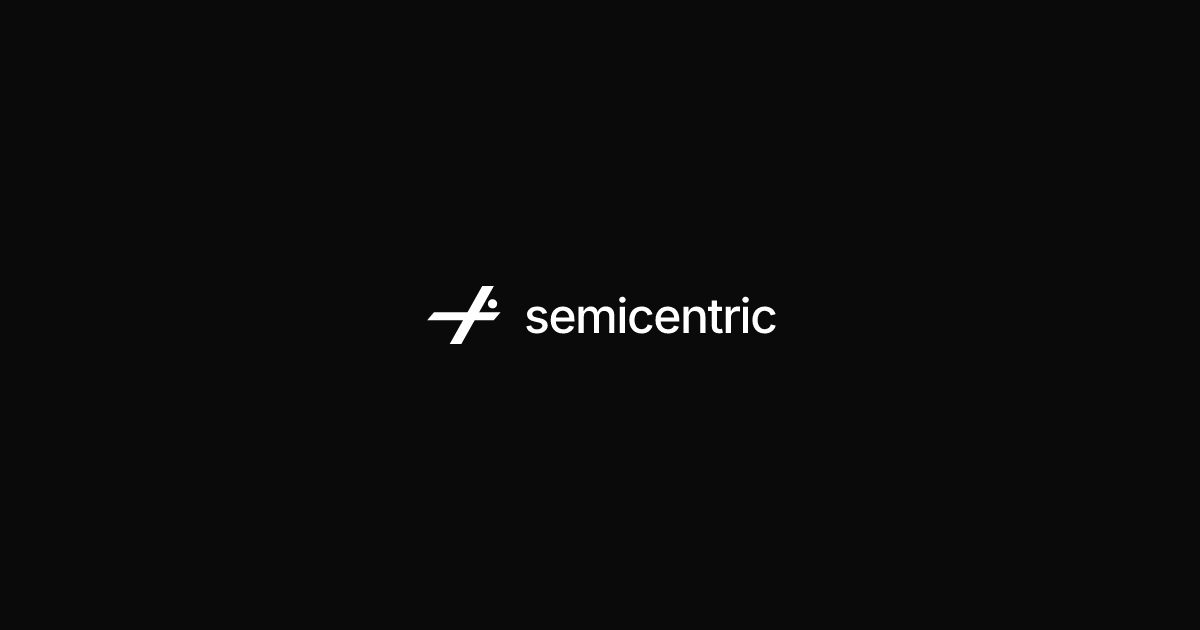
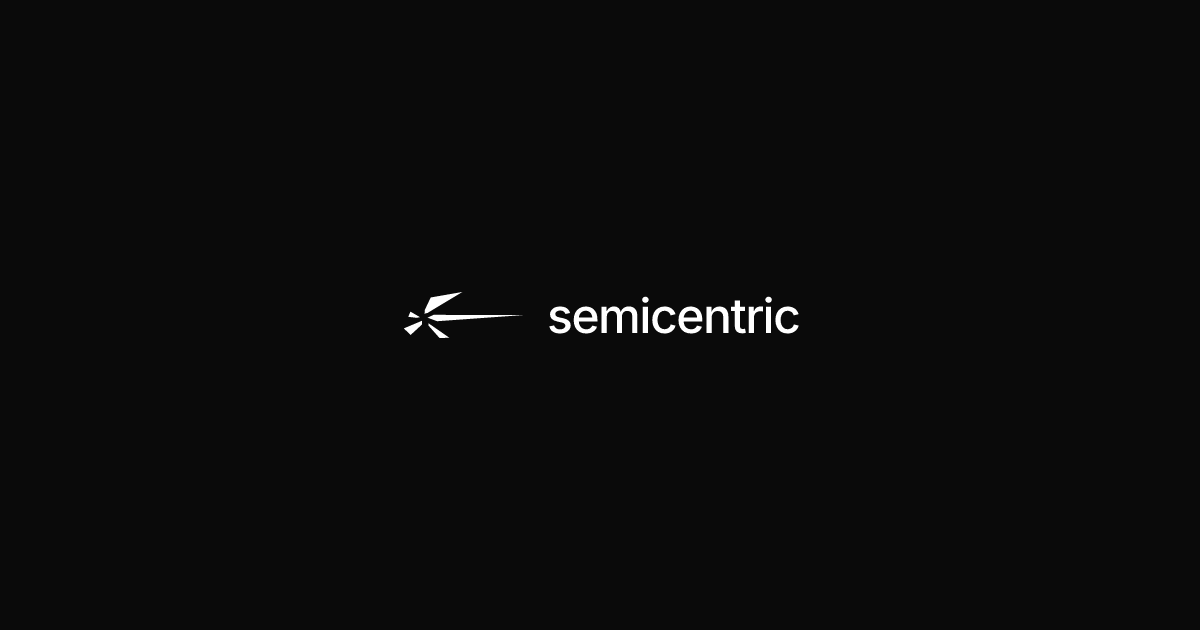
Swap in new semicentric burst mark, keep old as LogoLegacy

Changed region(s): [[0.3392, 0.4524, 0.6783, 0.5429]]

diff --git a/components/Logo.tsx b/components/Logo.tsx
@@ -1,6 +1,22 @@
-import { motion } from "framer-motion";
+import { motion, useReducedMotion } from "framer-motion";
 
 const EASE = [0.22, 1, 0.36, 1] as const;
+
+export const LOGO_VIEWBOX = "31 164 450 184";
+export const LOGO_RATIO = "450/184";
+
+const ORIGIN_X = 131;
+const ORIGIN_Y = 262;
+
+const RAYS = [
+  { d: "M115 251.5 L126 248.5 L250 174.5 L137 194 L116 238Z", at: 0.1 },
+  { d: "M57 262.5 L87.5 266 L98.5 263.5 L64.5 244Z", at: 0.145 },
+  { d: "M125.5 265.5 L160 278 L471 256 L147 255.5Z", at: 0 },
+  { d: "M41 303.5 L65.5 326.5 L105.5 290 L105.5 276.5Z", at: 0.19 },
+  { d: "M203.5 336.5 L129.5 285.5 L129.5 294 L168.5 337.5Z", at: 0.235 },
+];
+
+const TRAIL = 2;
 
 export default function Logo({
   className,
@@ -11,18 +27,20 @@ export default function Logo({
   animated?: boolean;
   delay?: number;
 }) {
-  if (!animated) {
+  const reduced = useReducedMotion();
+
+  if (!animated || reduced) {
     return (
       <svg
         fill="none"
-        viewBox="-24 0 604 440"
+        viewBox={LOGO_VIEWBOX}
         xmlns="http://www.w3.org/2000/svg"
         className={className}
       >
         <g fill="currentColor">
-          <path d="m0 260 50.967-60h505.033l-50.967 60z" />
-          <path d="m506 0h-88.158l-246.842 440h88.158z" />
-          <circle cx="496" cy="135" r="35" />
+          {RAYS.map((ray) => (
+            <path key={ray.d} d={ray.d} />
+          ))}
         </g>
       </svg>
     );
@@ -31,38 +49,40 @@ export default function Logo({
   return (
     <svg
       fill="none"
-      viewBox="-24 0 604 440"
+      viewBox={LOGO_VIEWBOX}
       xmlns="http://www.w3.org/2000/svg"
       className={className}
     >
       <g fill="currentColor">
-        <motion.path
-          d="m506 0h-88.158l-246.842 440h88.158z"
-          initial={{ opacity: 0, filter: "blur(6px)" }}
-          animate={{ opacity: 1, filter: "blur(0px)" }}
-          transition={{ duration: 0.6, delay, ease: EASE }}
-        />
-        <motion.path
-          d="m0 260 50.967-60h505.033l-50.967 60z"
-          initial={{ opacity: 0, scaleX: 0 }}
-          animate={{ opacity: 1, scaleX: 1 }}
-          transition={{ duration: 0.55, delay: delay + 0.08, ease: EASE }}
-          style={{ transformBox: "fill-box", transformOrigin: "left center" }}
-        />
-        <motion.circle
-          cx="496"
-          cy="135"
-          r="35"
-          initial={{ opacity: 0, scale: 0.25, filter: "blur(4px)" }}
-          animate={{ opacity: 1, scale: 1, filter: "blur(0px)" }}
-          transition={{
-            type: "spring",
-            duration: 0.3,
-            bounce: 0,
-            delay: delay + 0.3,
-          }}
-          style={{ transformBox: "fill-box", transformOrigin: "center" }}
-        />
+        {RAYS.map((ray, i) => {
+          const trail = i === TRAIL;
+          return (
+            <motion.path
+              key={ray.d}
+              d={ray.d}
+              initial={
+                trail
+                  ? { opacity: 0, scaleX: 0.06, scaleY: 0.7, filter: "blur(7px)" }
+                  : { opacity: 0, scaleX: 0.32, scaleY: 0.32, filter: "blur(5px)" }
+              }
+              animate={{
+                opacity: 1,
+                scaleX: 1,
+                scaleY: 1,
+                filter: "blur(0px)",
+              }}
+              transition={{
+                duration: trail ? 0.6 : 0.45,
+                delay: delay + ray.at,
+                ease: EASE,
+              }}
+              style={{
+                transformOrigin: `${ORIGIN_X}px ${ORIGIN_Y}px`,
+                willChange: "transform, opacity, filter",
+              }}
+            />
+          );
+        })}
       </g>
     </svg>
   );

diff --git a/components/LogoLegacy.tsx b/components/LogoLegacy.tsx
@@ -1,0 +1,69 @@
+import { motion } from "framer-motion";
+
+const EASE = [0.22, 1, 0.36, 1] as const;
+
+export default function LogoLegacy({
+  className,
+  animated = false,
+  delay = 0,
+}: {
+  className?: string;
+  animated?: boolean;
+  delay?: number;
+}) {
+  if (!animated) {
+    return (
+      <svg
+        fill="none"
+        viewBox="-24 0 604 440"
+        xmlns="http://www.w3.org/2000/svg"
+        className={className}
+      >
+        <g fill="currentColor">
+          <path d="m0 260 50.967-60h505.033l-50.967 60z" />
+          <path d="m506 0h-88.158l-246.842 440h88.158z" />
+          <circle cx="496" cy="135" r="35" />
+        </g>
+      </svg>
+    );
+  }
+
+  return (
+    <svg
+      fill="none"
+      viewBox="-24 0 604 440"
+      xmlns="http://www.w3.org/2000/svg"
+      className={className}
+    >
+      <g fill="currentColor">
+        <motion.path
+          d="m506 0h-88.158l-246.842 440h88.158z"
+          initial={{ opacity: 0, filter: "blur(6px)" }}
+          animate={{ opacity: 1, filter: "blur(0px)" }}
+          transition={{ duration: 0.6, delay, ease: EASE }}
+        />
+        <motion.path
+          d="m0 260 50.967-60h505.033l-50.967 60z"
+          initial={{ opacity: 0, scaleX: 0 }}
+          animate={{ opacity: 1, scaleX: 1 }}
+          transition={{ duration: 0.55, delay: delay + 0.08, ease: EASE }}
+          style={{ transformBox: "fill-box", transformOrigin: "left center" }}
+        />
+        <motion.circle
+          cx="496"
+          cy="135"
+          r="35"
+          initial={{ opacity: 0, scale: 0.25, filter: "blur(4px)" }}
+          animate={{ opacity: 1, scale: 1, filter: "blur(0px)" }}
+          transition={{
+            type: "spring",
+            duration: 0.3,
+            bounce: 0,
+            delay: delay + 0.3,
+          }}
+          style={{ transformBox: "fill-box", transformOrigin: "center" }}
+        />
+      </g>
+    </svg>
+  );
+}

diff --git a/scripts/generate-og.tsx b/scripts/generate-og.tsx
@@ -20,14 +20,16 @@ const svg = await satori(
   >
     <svg
       fill="none"
-      viewBox="-24 0 604 440"
+      viewBox="31 164 450 184"
       xmlns="http://www.w3.org/2000/svg"
-      width="80"
-      height="58"
+      width="126"
+      height="52"
     >
-      <path d="m0 260 50.967-60h505.033l-50.967 60z" fill="white" />
-      <path d="m506 0h-88.158l-246.842 440h88.158z" fill="white" />
-      <circle cx="496" cy="135" r="35" fill="white" />
+      <path d="M115 251.5 L126 248.5 L250 174.5 L137 194 L116 238Z" fill="white" />
+      <path d="M57 262.5 L87.5 266 L98.5 263.5 L64.5 244Z" fill="white" />
+      <path d="M125.5 265.5 L160 278 L471 256 L147 255.5Z" fill="white" />
+      <path d="M41 303.5 L65.5 326.5 L105.5 290 L105.5 276.5Z" fill="white" />
+      <path d="M203.5 336.5 L129.5 285.5 L129.5 294 L168.5 337.5Z" fill="white" />
     </svg>
     <div
       style={{

diff --git a/components/shared.tsx b/components/shared.tsx
@@ -2,7 +2,7 @@
 
 import { AnimatePresence, motion, useReducedMotion } from "framer-motion";
 import { useState } from "react";
-import Logo from "./Logo";
+import Logo, { LOGO_RATIO } from "./Logo";
 
 export const EASE = [0.22, 1, 0.36, 1] as const;
 export const EMAIL = "ops@semicentric.co";
@@ -80,7 +80,7 @@ export function Wordmark({
     <span
       aria-hidden
       className={`relative z-10 inline-flex shrink-0 overflow-visible ${markClassName ?? "ml-[0.16em]"}`}
-      style={{ height: "0.78em", aspectRatio: "604/440" }}
+      style={{ height: "0.78em", aspectRatio: LOGO_RATIO }}
     >
       <Logo className="h-full w-auto text-ink" animated delay={reduced ? 0 : LOGO_AT_S} />
     </span>
